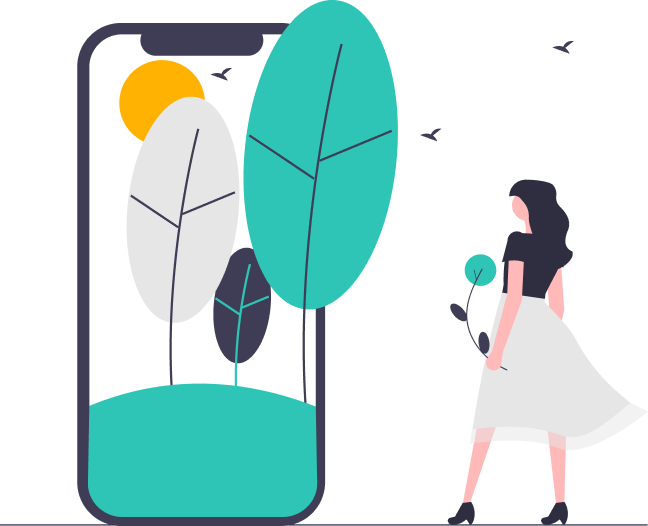
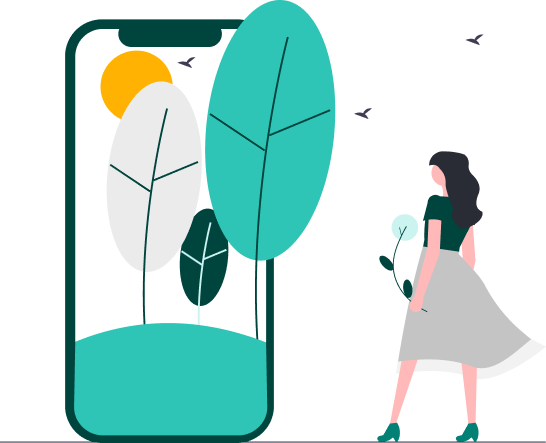
changes styles layoutLoginMethods

diff --git a/src/assets/styles/componentes/LayoutLoginMethod.scss b/src/assets/styles/componentes/LayoutLoginMethod.scss
@@ -5,13 +5,19 @@
   justify-content: center;
   align-items: center;
   height: 100vh;
+
+  .login,.register,.recovery{
+    padding:0 32px;
+    max-width: 370px;
+    width: 100%;
+  }
+
 }
 
 .imagen{
   display: none;
   height: 100vh;
-  background-color: $main-green;
-  // background-color: $semiDark-green;
+  background-color: #F7F4F4;
 }
 
 @media (min-width:910px){
@@ -20,6 +26,7 @@
     .login,.register,.recovery{
       padding:0 40px;
       min-width: 400px;
+      margin: 0 38px;
     }
   }
 
@@ -29,12 +36,7 @@
     align-items: center;
     justify-content: center;
     opacity: 1;
-
-    img{
-      width: 100%;
-      max-width: 600px;
-    }
-
+    overflow: hidden;
   }
 
 }

diff --git a/src/assets/styles/componentes/PasswordRecovery.scss b/src/assets/styles/componentes/PasswordRecovery.scss
@@ -1,9 +1,6 @@
 @import '../Vars.scss';
 
 .recovery{
-  max-width: 380px;
-  width: 100%;
-  padding: 60px 32px 32px;
 
   &__title{
     .title{

diff --git a/src/assets/styles/componentes/Register.scss b/src/assets/styles/componentes/Register.scss
@@ -1,9 +1,6 @@
 @import '../Vars.scss';
 
 .register{
-  max-width: 370px;
-  width: 100%;
-  padding: 60px 32px 32px;
 
   &__title{
     .title{

diff --git a/src/assets/styles/componentes/Login.scss b/src/assets/styles/componentes/Login.scss
@@ -1,9 +1,6 @@
 @import '../Vars.scss';
 
 .login{
-  max-width: 380px;
-  width: 100%;
-  padding: 60px 32px 32px;
 
   &__title{
     .title{
